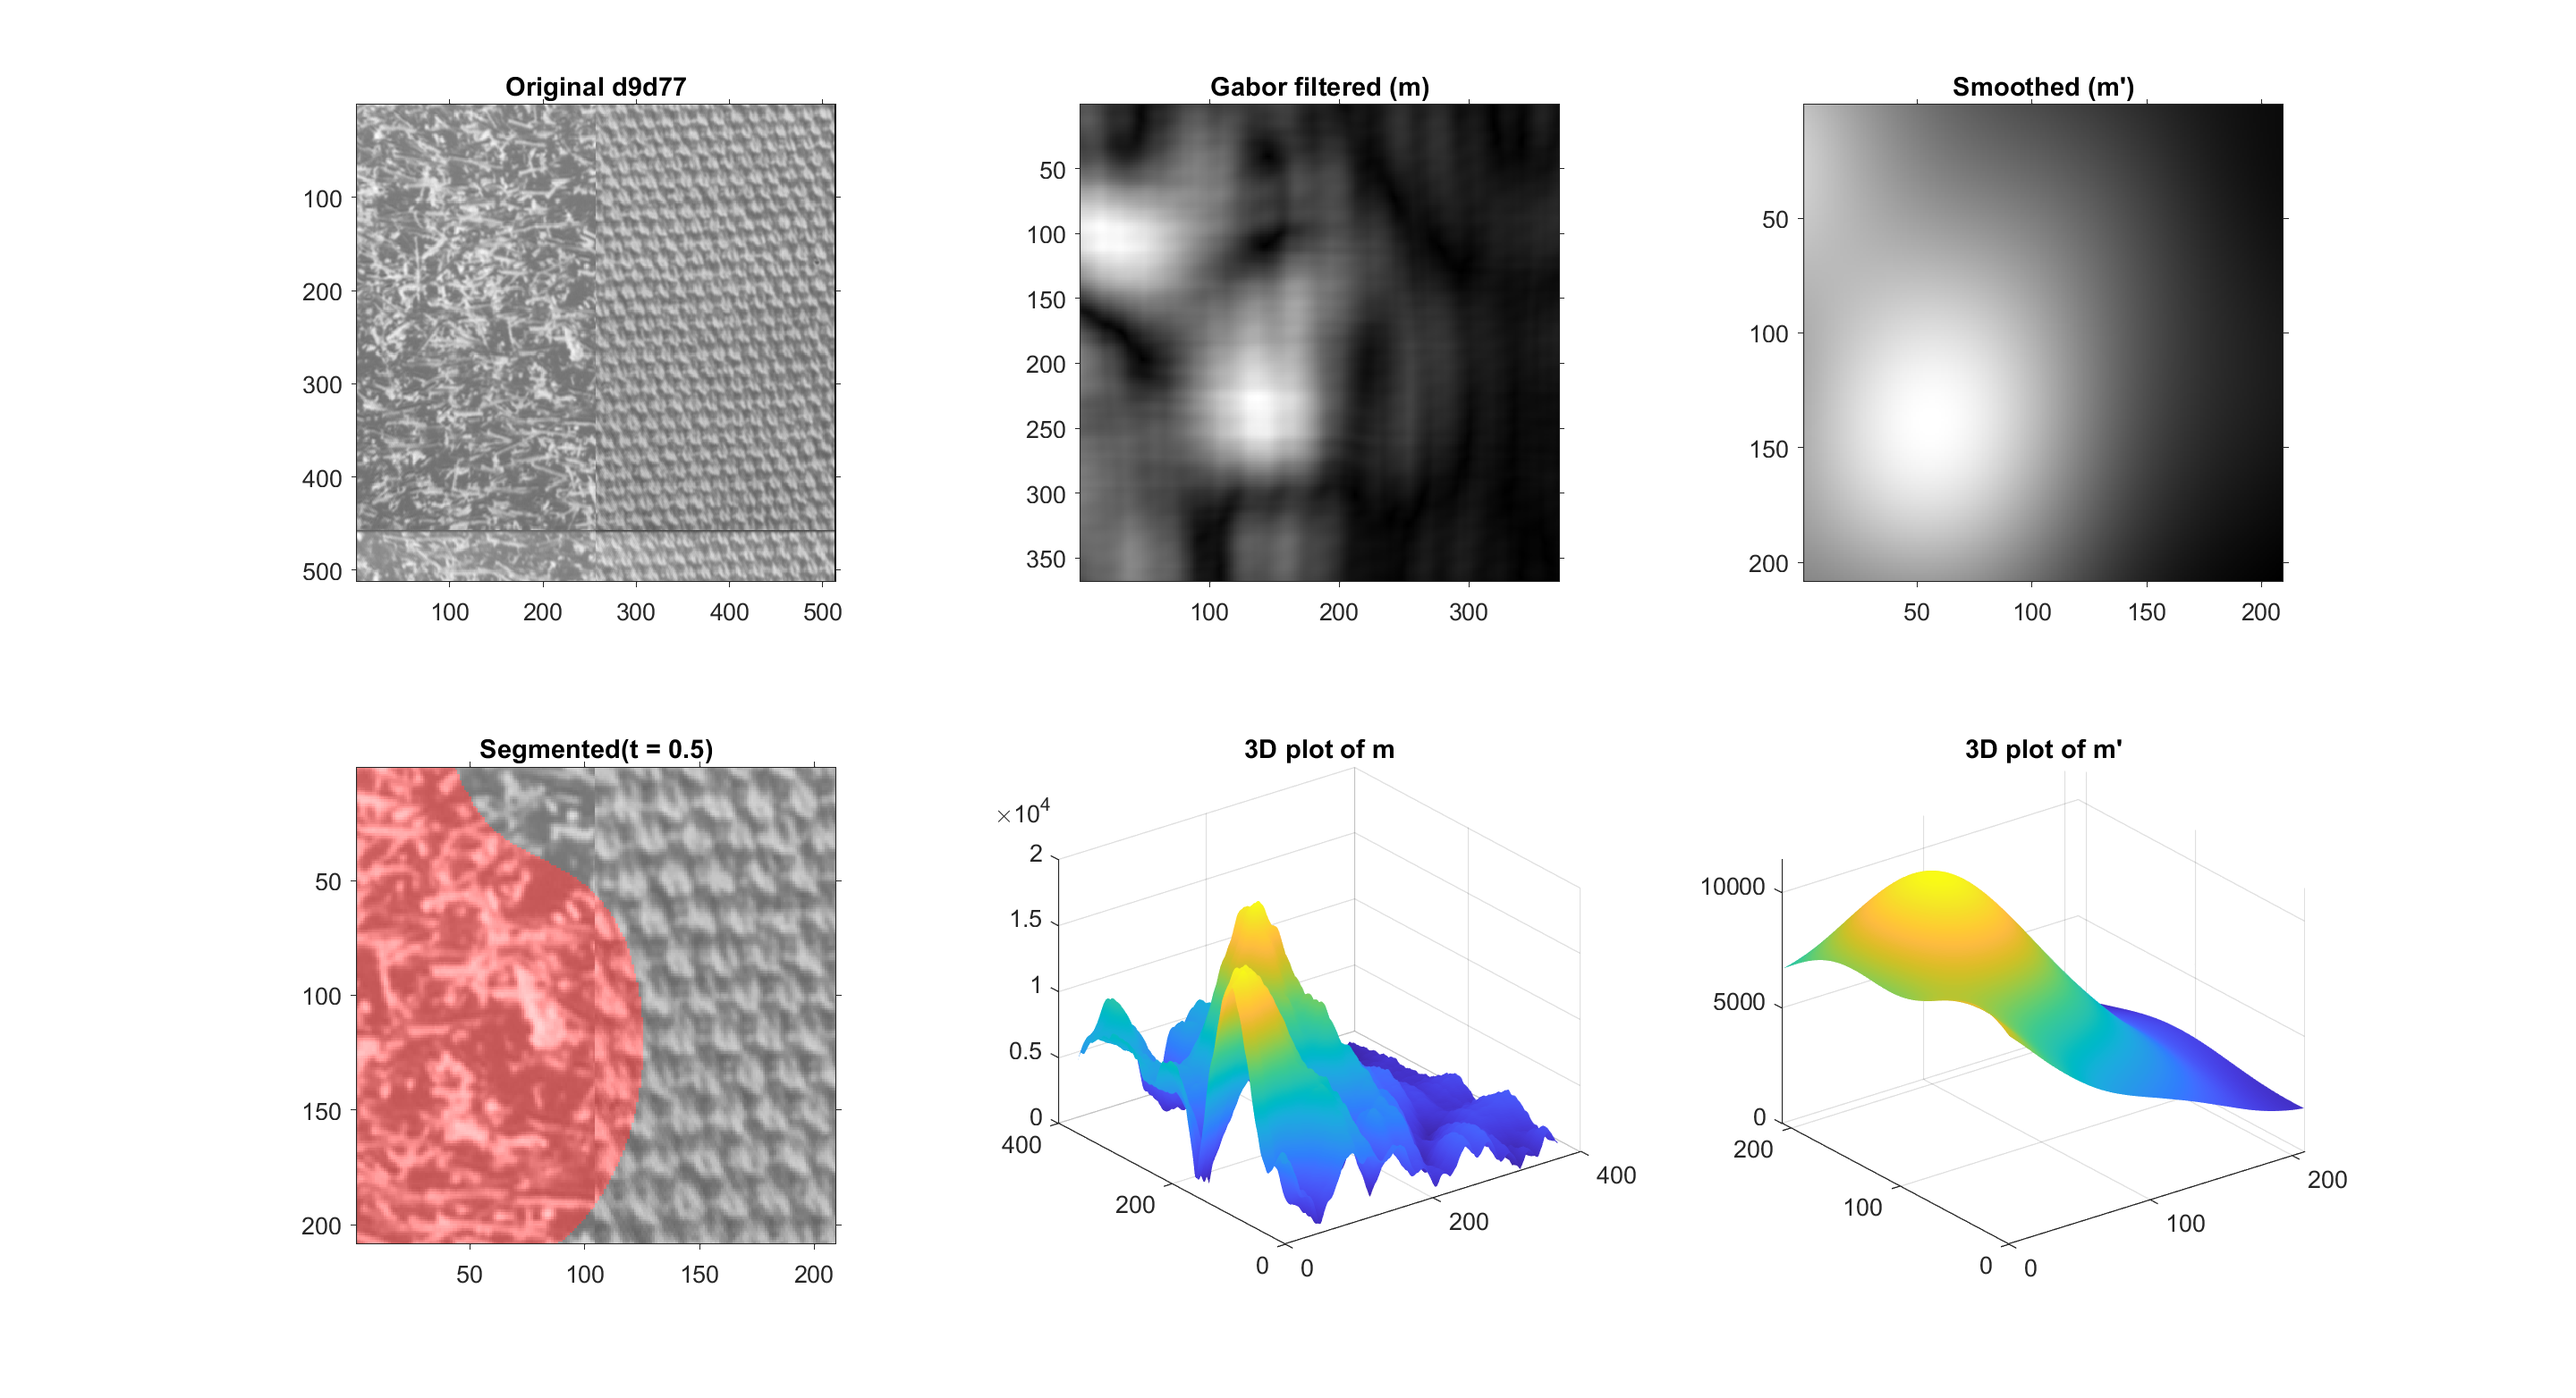
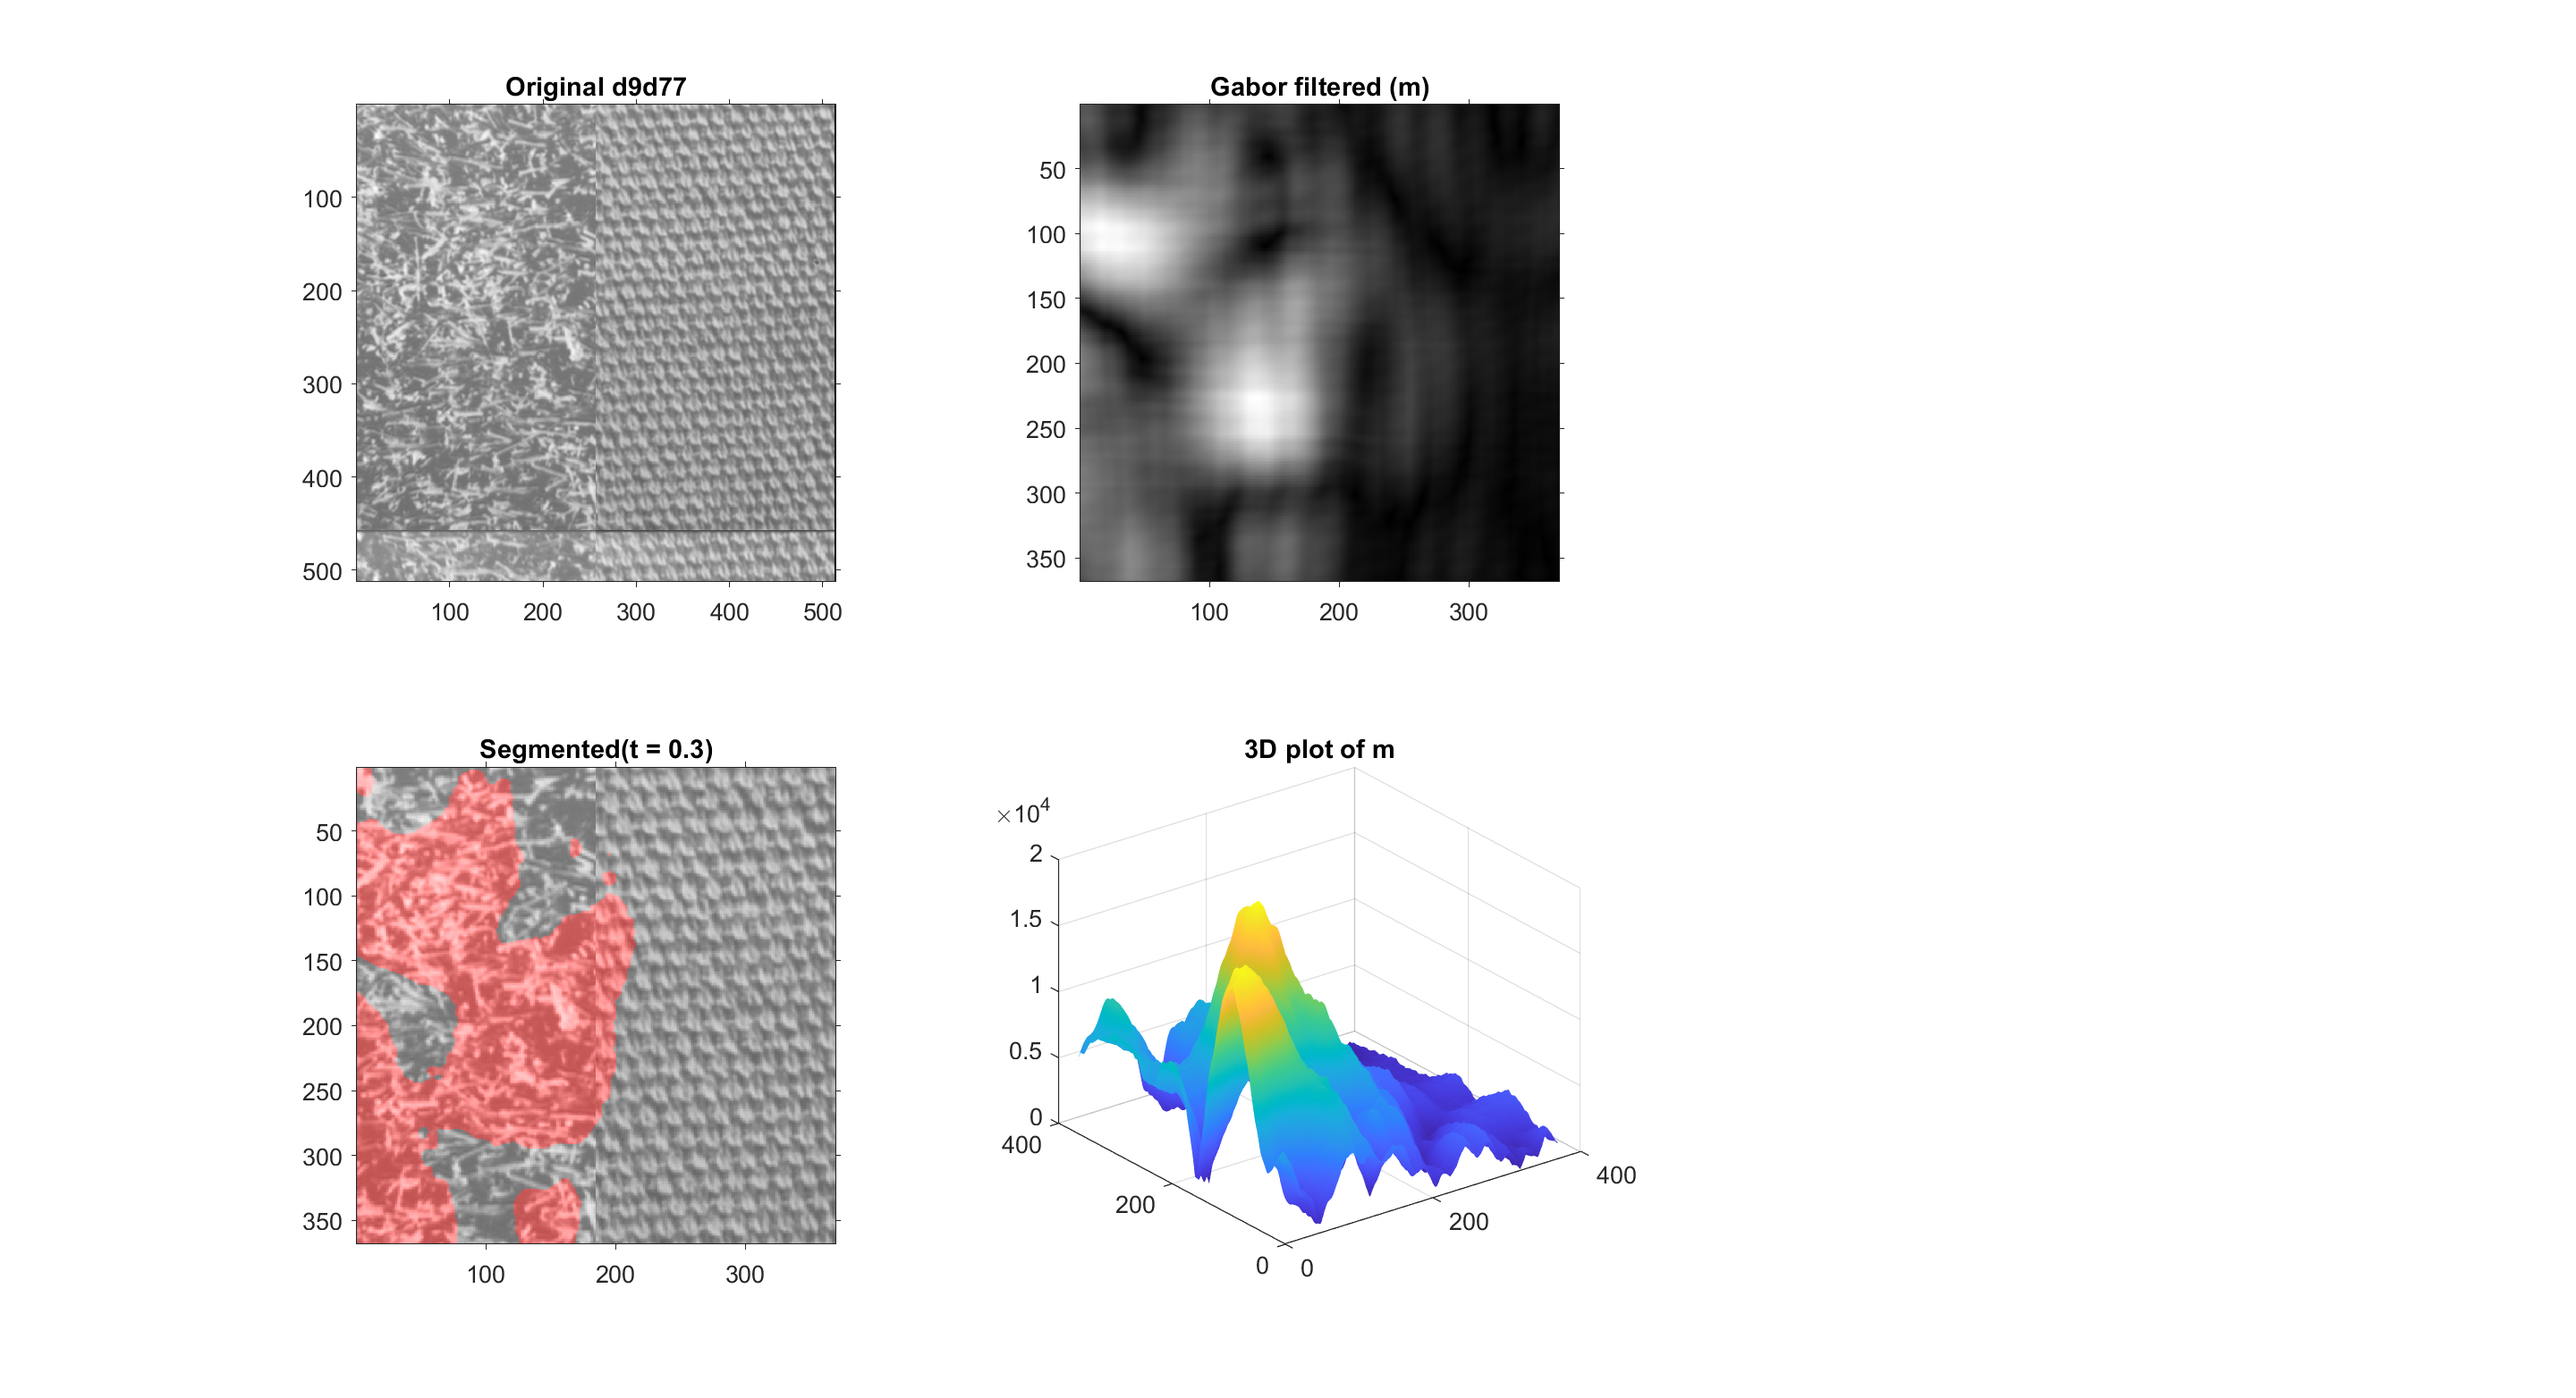
update test case 3

diff --git a/Project 4/project4_final.m b/Project 4/project4_final.m
@@ -103,21 +103,21 @@ d9d77_smoothed = applyGaussianSmoothing(d9d77_filtered, sigma_smooth);
 figure;
 subplot(2,3,1); imshow(d9d77); title('Original d9d77');axis on;
 subplot(2,3,2); imshow(d9d77_filtered, []); title('Gabor filtered (m)');axis on;
-subplot(2,3,3); imshow(d9d77_smoothed, []); title('Smoothed (m'')');axis on;
+%subplot(2,3,3); imshow(d9d77_smoothed, []); title('Smoothed (m'')');axis on;
 
 subplot(2,3,5);
 surf(d9d77_filtered, 'EdgeColor', 'none');
 shading interp;
 title('3D plot of m');
 
-subplot(2,3,6);
-surf(d9d77_smoothed, 'EdgeColor', 'none');
-shading interp;
-title('3D plot of m''');
+%subplot(2,3,6);
+%surf(d9d77_smoothed, 'EdgeColor', 'none');
+%shading interp;
+%title('3D plot of m''');
 
 % Threshold for segmentation (adjust as needed)
-thresholdValue = 0.5;
-threshold_d9d77 = segmentImage(d9d77_smoothed, d9d77, thresholdValue);
+thresholdValue = 0.3;
+threshold_d9d77 = segmentImage(d9d77_filtered, d9d77, thresholdValue);
 
 subplot(2,3,4);
 imshow(threshold_d9d77);axis on;
@@ -160,7 +160,7 @@ title('3D plot of m''');
 view(-45, 20);
 
 % Threshold for segmentation (adjust as needed)
-thresholdValue = 0.55;
+thresholdValue = 0.5;
 threshold_d4d29 = segmentImage(d4d29_smoothed, d4d29, thresholdValue);
 
 subplot(2,3,4);
